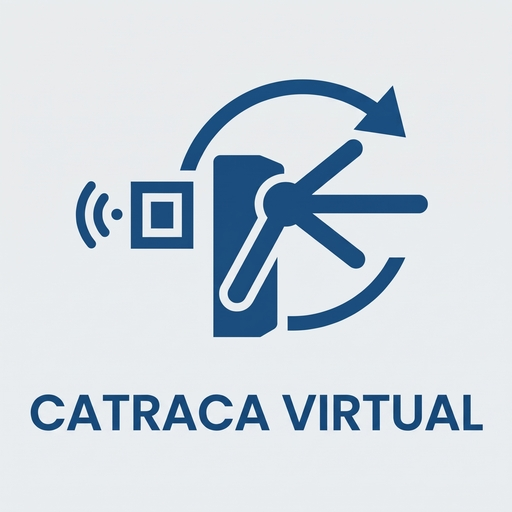
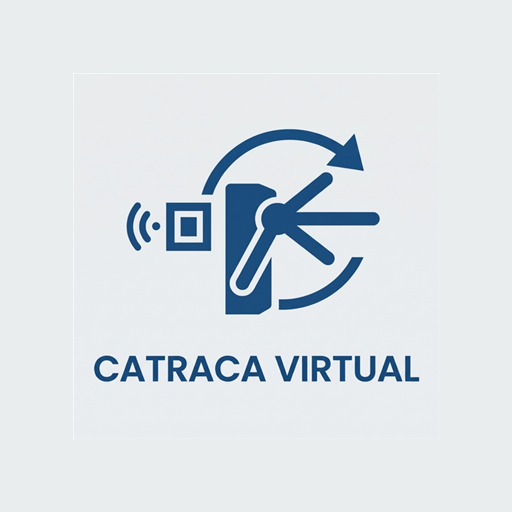
Ajuste de margem safe-zone no icone PWA 512x512

Changed region(s): [[0.0625, 0.1562, 0.9375, 0.8438]]

diff --git a/aplicativo/public/sw.js b/aplicativo/public/sw.js
@@ -1,4 +1,4 @@
-const CACHE_STATIC = "catraca-static-v7";
+const CACHE_STATIC = "catraca-static-v8";
 const SHELL_ASSETS = [
   "/manifest.webmanifest",
   "/icon-192x192.png",
